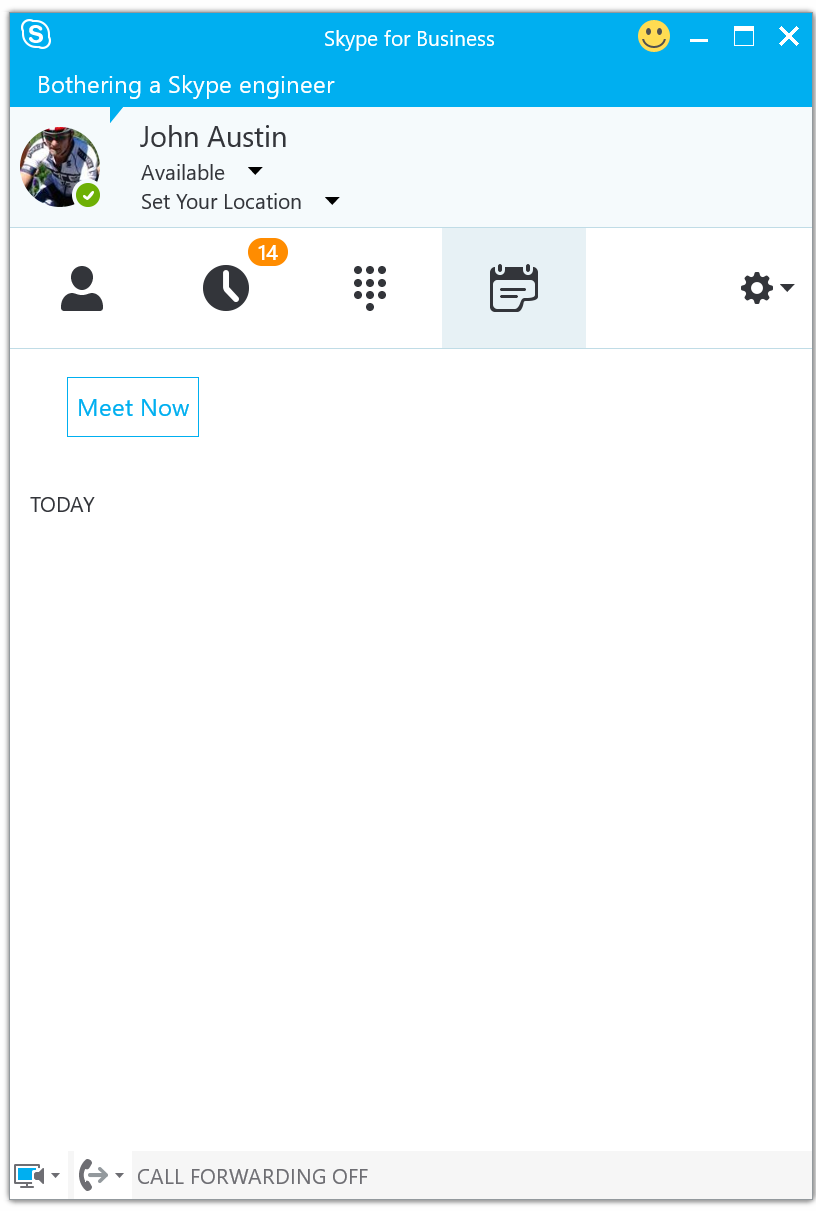
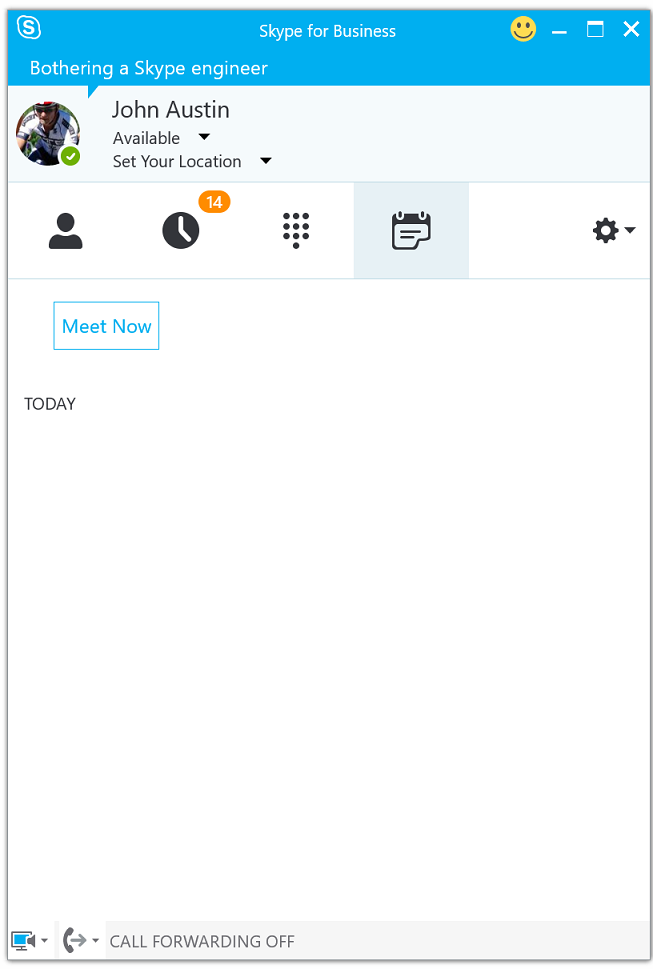
New images for getting meeting info

Changed region(s): [[0.6126, 0.2167, 0.6432, 0.2477], [0.2144, 0.0619, 0.245, 0.0929]]

diff --git a/Skype/AppSDK/GetMeetingURL.md b/Skype/AppSDK/GetMeetingURL.md
@@ -1,1 +1,35 @@
 # Get a Skype for Business meeting URL
+If you have not written a server-side feature to schedule a meeting and return a new meeting URL, you can
+still get a meeting URL and develop against a live meeting. Users of your production app will rely on server
+logic to return a new meeting whenever they use the join meeting feature of the **App SDK**.
+
+
+## While developing your app
+While your app is in development, you can create your own anonymous Skype for Business meeting as long as you are
+a licensed user of Skype for Business. There are two easy ways to do this.
+
+* Start an ad-hoc meeting from your **Skype for Business** desktop client as shown in figure 1. 
+
+  ![Meet Now button on the Skype for Business client](images/meetnow.PNG "Figure 1. Meet Now button on the Skype for Business client")
+
+* Schedule a **Skype for Business** meeting in outlook. You can set the meeting to run for multiple
+days so that you don't need to get a new meeting URL whenever you are testing your code.
+
+ ![Schedule a meeting in Outlook](images/outlookmeeting.PNG "Figure 2. Schedule a meeting in Outlook")
+ 
+ ### Get the meeting URL
+ 
+ Join the meeting you scheduled in the previous step. The **Skype for Business** meeting window has a  round "..." button at the 
+ bottom right corner of the window. Click the button and choose the **Meeting Entry Info** option from the 
+ context menu. The dialog that opens shows a **Meeting Link** field which contains the URL that you'll use to join the
+ meeting.  
+ 
+ ![Get the meeting URL from the meeting window](images/entryinfo.PNG "Figure 3. Get the meeting URL from the meeting window")
+ 
+ ## In production
+ 
+ To create new meetings on demand and send the new meeting URL to your mobile app, you'll 
+ write a UCWA-based server application that makes server-to-server REST calls into a **Skype for Business** server
+ to create a meeting and get the meeting URL. You will need to write a client-side feature to
+ communicate with your server application to initiate this transaction and get the
+ returned meeting URL.
